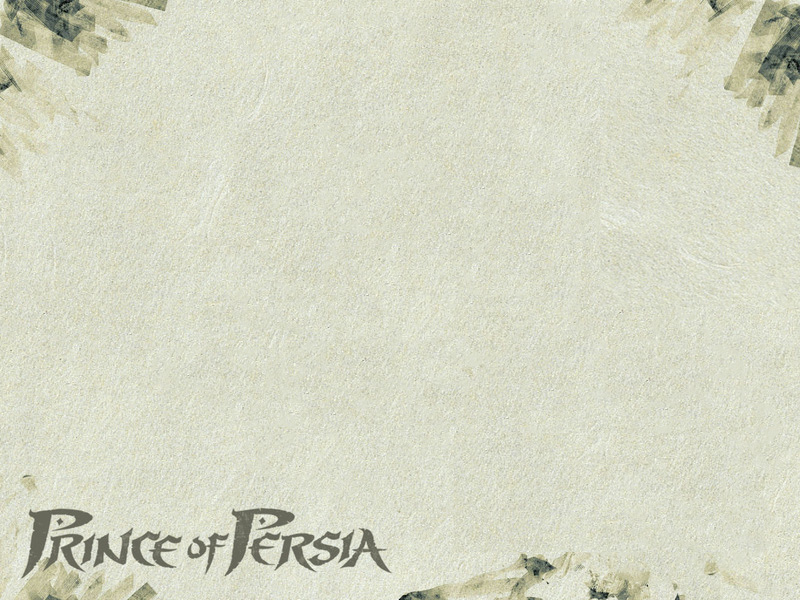
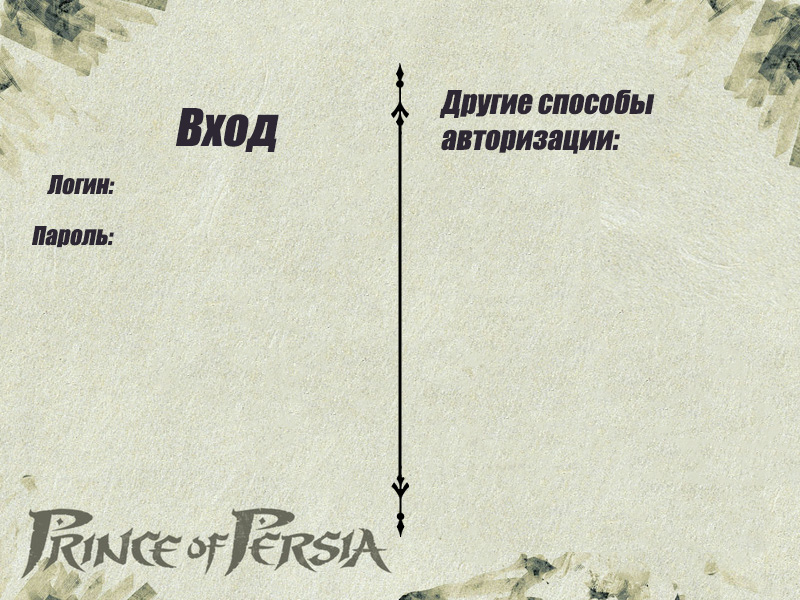
update

diff --git a/registration.py b/registration.py
@@ -2,7 +2,7 @@ import pygame
 import pygame_gui
 import sqlite3
 import hashlib
-
+import PyZenity
 
 def exit_game(manager):
     conf_dealog = pygame_gui.windows.UIConfirmationDialog(
@@ -14,15 +14,15 @@ def exit_game(manager):
         blocking=True)
 
 
-#
-# def signal_notification(value, manager):
-#     conf_dealog = pygame_gui.windows.UIConfirmationDialog(
-#         rect=pygame.Rect((250, 200), (300, 100)),
-#         manager=manager,
-#         window_title="Оповещение",
-#         action_long_desc=value,
-#         action_short_name='ОК',
-#         blocking=True)
+
+def signal_notification(value, manager):
+    conf_dealog = pygame_gui.windows.UIConfirmationDialog(
+        rect=pygame.Rect((250, 200), (200, 100)),
+        manager=manager,
+        window_title="Оповещение",
+        action_long_desc=value,
+        action_short_name='ОК',
+        blocking=False)
 
 
 class Authorization:
@@ -34,26 +34,26 @@ class Authorization:
         self.manager = pygame_gui.UIManager((800, 600))
 
         self.entrance = pygame_gui.elements.UIButton(
-            relative_rect=pygame.Rect((345, 300), (70, 30)),
+            relative_rect=pygame.Rect((30, 280), (340, 40)),
             text='Войти',
             manager=self.manager)
         self.return_back = pygame_gui.elements.UIButton(
-            relative_rect=pygame.Rect((100, 100), (150, 30)),
+            relative_rect=pygame.Rect((20, 450), (150, 50)),
             text='Вернуться назад',
             manager=self.manager)
         self.registration = pygame_gui.elements.UIButton(
-            relative_rect=pygame.Rect((20, 20), (110, 40)),
+            relative_rect=pygame.Rect((440, 250), (110, 40)),
             text='Регистрация',
             manager=self.manager)
         self.return_password = pygame_gui.elements.UIButton(
-            relative_rect=pygame.Rect((170, 20), (180, 40)),
+            relative_rect=pygame.Rect((440, 200), (180, 40)),
             text='Восстановить пароль',
             manager=self.manager)
         self.name = pygame_gui.elements.UITextEntryLine(
-            relative_rect=pygame.Rect((230, 200), (300, 30)),
+            relative_rect=pygame.Rect((118, 171), (250, 30)),
             manager=self.manager)
         self.psw = pygame_gui.elements.UITextEntryLine(
-            relative_rect=pygame.Rect((230, 250), (300, 30)),
+            relative_rect=pygame.Rect((118, 221), (250, 30)),
             manager=self.manager)
         self.clock = pygame.time.Clock()
         self.authorization_func()
@@ -109,42 +109,48 @@ class Register:
         pygame.init()
         pygame.display.set_caption('Prince Of Voronezh')
         self.window_surface = pygame.display.set_mode((800, 600))
-        self.background = pygame.image.load('images/reg1.jpg')
+        self.background = pygame.image.load('images/reg3.jpg')
         self.manager = pygame_gui.UIManager((800, 600))
 
         self.reg_btn = pygame_gui.elements.UIButton(
-            relative_rect=pygame.Rect((230, 400), (300, 30)),
+            relative_rect=pygame.Rect((235, 350), (300, 40)),
             text='Завершить регистрацию',
             manager=self.manager)
         self.return_menu_btn = pygame_gui.elements.UIButton(
-            relative_rect=pygame.Rect((20, 20), (150, 40)),
+            relative_rect=pygame.Rect((20, 450), (150, 50)),
             text='Вернуться назад',
             manager=self.manager)
         self.name = pygame_gui.elements.UITextEntryLine(
-            relative_rect=pygame.Rect((230, 200), (300, 30)),
+            relative_rect=pygame.Rect((235, 123), (300, 30)),
             manager=self.manager)
         self.key_word = pygame_gui.elements.UITextEntryLine(
-            relative_rect=pygame.Rect((230, 250), (300, 30)),
+            relative_rect=pygame.Rect((235, 181), (300, 30)),
             manager=self.manager)
         self.psw1 = pygame_gui.elements.UITextEntryLine(
-            relative_rect=pygame.Rect((230, 300), (300, 30)),
+            relative_rect=pygame.Rect((235, 236), (300, 30)),
             manager=self.manager)
         self.psw2 = pygame_gui.elements.UITextEntryLine(
-            relative_rect=pygame.Rect((230, 350), (300, 30)),
+            relative_rect=pygame.Rect((235, 292), (300, 30)),
             manager=self.manager)
         self.clock = pygame.time.Clock()
         self.authorization_func()
 
     def reg(self):
         self.register(str(self.name.get_text()), str(self.psw1.get_text()),
-                      str(self.psw2.get_text()), str(self.psw2.get_text()))
+                      str(self.psw2.get_text()), str(self.key_word.get_text()))
 
     def register(self, name, passw1, passw2, key_word):
         con = sqlite3.connect('users.db')
         cur = con.cursor()
         # Проверяем используется ли такой логин
         value = cur.execute(f'SELECT * FROM users WHERE name="{name}";').fetchall()
-        if len(passw1) == 0:
+        if len(passw1) == 0 and len(name) == 0:
+            print('Некорректный ввод')
+        elif len(key_word) == 0:
+            signal_notification('Некорректное кодовое слово', self.manager)
+            print('Некорректное кодовое слово')
+        elif len(passw1) == 0:
+            signal_notification('Некорректный пароль', self.manager)
             print('Некорректный пароль')
         elif passw1 != passw2:
             print('Пароли не совпадают')
@@ -189,28 +195,28 @@ class Return_PSW:
         pygame.init()
         pygame.display.set_caption('Prince Of Voronezh')
         self.window_surface = pygame.display.set_mode((800, 600))
-        self.background = pygame.image.load('images/reg1.jpg')
+        self.background = pygame.image.load('images/reg2.jpg')
         self.manager = pygame_gui.UIManager((800, 600))
 
         self.update_psw = pygame_gui.elements.UIButton(
-            relative_rect=pygame.Rect((230, 400), (300, 40)),
+            relative_rect=pygame.Rect((235, 350), (300, 40)),
             text='Завершить регистрацию',
             manager=self.manager)
         self.return_menu_btn = pygame_gui.elements.UIButton(
-            relative_rect=pygame.Rect((20, 20), (150, 40)),
+            relative_rect=pygame.Rect((20, 450), (150, 50)),
             text='Вернуться назад',
             manager=self.manager)
         self.name = pygame_gui.elements.UITextEntryLine(
-            relative_rect=pygame.Rect((230, 200), (300, 30)),
+            relative_rect=pygame.Rect((235, 123), (300, 30)),
             manager=self.manager)
         self.key_word = pygame_gui.elements.UITextEntryLine(
-            relative_rect=pygame.Rect((230, 250), (300, 30)),
+            relative_rect=pygame.Rect((235, 181), (300, 30)),
             manager=self.manager)
         self.psw1 = pygame_gui.elements.UITextEntryLine(
-            relative_rect=pygame.Rect((230, 300), (300, 30)),
+            relative_rect=pygame.Rect((235, 236), (300, 30)),
             manager=self.manager)
         self.psw2 = pygame_gui.elements.UITextEntryLine(
-            relative_rect=pygame.Rect((230, 350), (300, 30)),
+            relative_rect=pygame.Rect((235, 292), (300, 30)),
             manager=self.manager)
         self.clock = pygame.time.Clock()
         self.update_psw_func()

diff --git a/game.py b/game.py
@@ -13,6 +13,11 @@ class LVLs():
 
         self.manager = pygame_gui.UIManager((800, 600))
 
+        self.return_back = pygame_gui.elements.UIButton(
+            relative_rect=pygame.Rect((20, 500), (150, 50)),
+            text='Вернуться назад',
+            manager=self.manager
+        )
         self.lvl1 = pygame_gui.elements.UIButton(
             relative_rect=pygame.Rect((50, 80), (100, 100)),
             text='Уровень -1-',
@@ -29,6 +34,7 @@ class LVLs():
             manager=self.manager
         )
         self.clock = pygame.time.Clock()
+
     def choose_lvl(self):
         running = True
         while running:
@@ -47,7 +53,7 @@ class LVLs():
                 if event.type == pygame.USEREVENT:
                     if event.user_type == pygame_gui.UI_CONFIRMATION_DIALOG_CONFIRMED:
                         running = False
-                if event.type == pygame.USEREVENT:
+                        exit()
                     self.window_surface.blit(self.background, (0, 0))
                     if event.user_type == pygame_gui.UI_BUTTON_PRESSED:
                         if event.ui_element == self.lvl1:
@@ -56,9 +62,10 @@ class LVLs():
                             pass
                         elif event.ui_element == self.lvl3:
                             pass
+                        elif event.ui_element == self.return_back:
+                            running = False
                 self.manager.process_events(event)
             self.manager.update(time_delta)
             self.manager.draw_ui(self.window_surface)
             pygame.display.update()
 
-        pygame.quit()

diff --git a/main.py b/main.py
@@ -29,7 +29,7 @@ class Main_menu:
 
         self.reg_bt = pygame_gui.elements.UIButton(
             relative_rect=pygame.Rect((30, 300), (250, 50)),
-            text='Регистрация',
+            text='Авторизация',
             manager=self.manager)
 
         self.shop_bt = pygame_gui.elements.UIButton(
